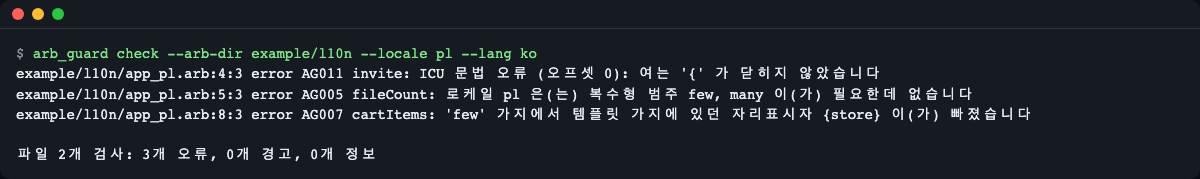
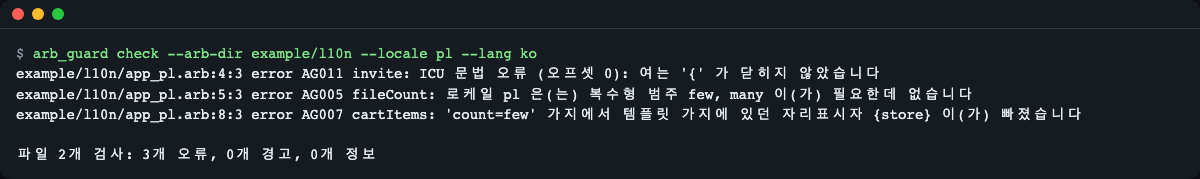
fix(rules): stop AG007 false positive in nested select
AG007 flagged the plural count variable as dropped when it sat only
in the outer plural branch of a select nested inside it. Track the
variables of enclosing branches and show the full branch path in the
message. Refresh the check-text and plural-locales screenshots.

Changed region(s): [[0.37, 0.5866, 0.8942, 0.6704]]

diff --git a/test/rules_branches_test.dart b/test/rules_branches_test.dart
@@ -127,6 +127,26 @@ void main() {
       expect(ids(f), ['AG007']);
     });
 
+    test('dropping the plural count inside a nested select is idiomatic', () {
+      expect(
+        check(
+          '{count, plural, one{{g, select, male{{count} he} other{{count} they}}} other{{count} x}}',
+          '{count, plural, one{{g, select, male{Él} other{Elle}}} other{{count} x}}',
+        ),
+        isEmpty,
+      );
+    });
+
+    test('nested select drop of another placeholder shows the path', () {
+      final f = check(
+        '{count, plural, one{{g, select, male{{name} he} other{{name} they}}} other{{count} x}}',
+        '{count, plural, one{{g, select, male{Él} other{{name} elle}}} other{{count} x}}',
+      );
+      expect(ids(f), ['AG007']);
+      expect(f.single.data['path'], 'count=one/g=male');
+      expect(f.single.message, contains('count=one/g=male'));
+    });
+
     test('a placeholder missing everywhere is not repeated per branch', () {
       final f = check(
         '{g, select, male{{name} came} other{{name} came}}',

diff --git a/lib/src/signature.dart b/lib/src/signature.dart
@@ -116,7 +116,7 @@ class ContextPair {
   /// Key of the translation branch (null at top level).
   final String? branchKey;
 
-  /// Variable of the plural this part is a direct branch of, if any.
+  /// Variable of the nearest enclosing plural (through select), if any.
   final String? enclosingPlural;
 
   /// True when this part is inside any plural branch.
@@ -208,7 +208,7 @@ StructurePairs pairStructure(
           rb.key,
           ra.kind == ArgKind.plural || ra.kind == ArgKind.ordinal
               ? ra.name
-              : null,
+              : enclosingPlural,
           inPlural || ra.kind == ArgKind.plural || ra.kind == ArgKind.ordinal,
         );
       }

diff --git a/lib/src/rules/branches.dart b/lib/src/rules/branches.dart
@@ -135,7 +135,7 @@ void checkBranchPlaceholders(MessageContext c) {
       if (!reported.add('${ctx.path}|$name')) continue;
       c.add(
         'AG007',
-        c.t('ag007', [ctx.branchKey!, braces(name)]),
+        c.t('ag007', [ctx.path, braces(name)]),
         data: {'branch': ctx.branchKey, 'placeholder': name, 'path': ctx.path},
       );
     }

diff --git a/CHANGELOG.md b/CHANGELOG.md
@@ -6,6 +6,9 @@ and this project adheres to [Semantic Versioning](https://semver.org/spec/v2.0.0
 
 ## [Unreleased]
 
+### Fixed
+- AG007 no longer flags a dropped plural count variable inside a select nested in a plural branch, and its message now shows the full branch path (e.g. `count=one/gender=male`).
+
 ## [0.1.1]
 
 ### Fixed
